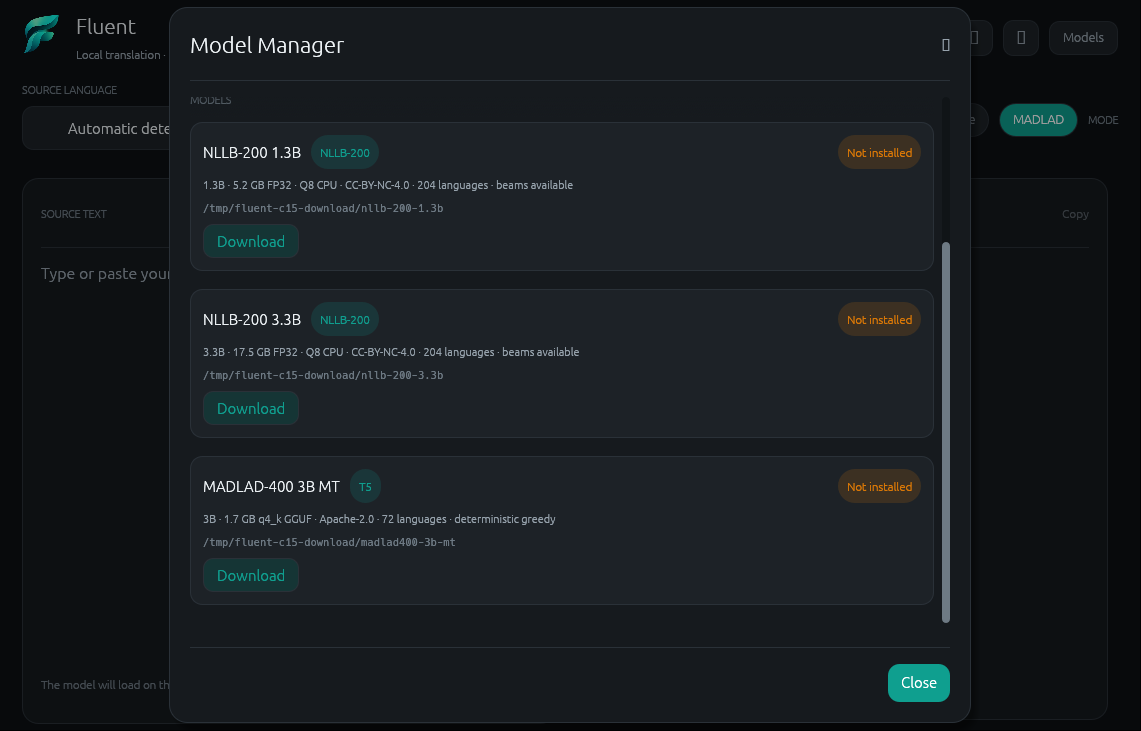
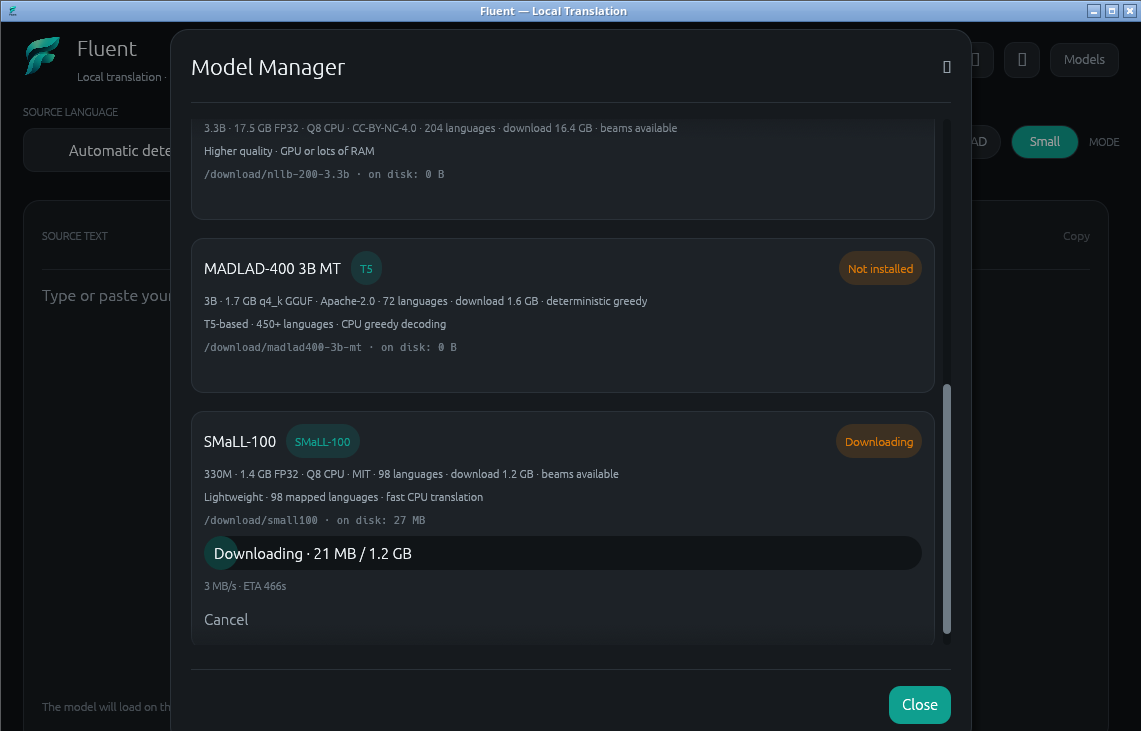
docs: record the Cycle 16 model comparison and UI captures
Adds the 42-pair and 126-case FLORES-200 measurements for SMaLL-100,
NLLB-200 1.3B/3.3B and MADLAD, plus real GUI captures of the four-model
selector, catalogue refresh, verified SMaLL-100 installation, download
confirmation and live download progress. Replaces the stale three-model
MADLAD screenshot.

diff --git a/docs/BENCHMARKS.md b/docs/BENCHMARKS.md
@@ -1,4 +1,7 @@
-# Translation Quality and Performance Benchmarks (Cycle 14)
+# Translation Quality and Performance Benchmarks
+
+Sections 1–9 record Cycle 14. Section 10 adds the Cycle 16 lightweight-model
+comparison over all 42 directed pairs among the seven required languages.
 
 This document records measured results on the canonical development host. It is
 a snapshot, not a universal performance claim. Raw JSON and metric outputs are
@@ -234,3 +237,162 @@ Unsupported selections are explicitly rejected and the GUI filters the picker.
 - Allocator-retained RSS after unload is not live model state.
 - The manual model selector is intentionally unchanged; no automatic routing
   was added.
+
+## 10. Cycle 16: SMaLL-100 and all 42 directed pairs
+
+### 10.1 Corpus and method
+
+- Corpus: `benchmarks/flores-7x7.json`, CC-BY-SA-4.0, derived from the first
+  three FLORES-200 devtest sentences for each of the **42 directed pairs** among
+  `eng_Latn`, `fra_Latn`, `deu_Latn`, `spa_Latn`, `por_Latn`, `ita_Latn` and
+  `zho_Hans` (126 cases). The archive is not committed.
+- Harness: `crates/fluent-core/examples/eval.rs`, one model per process, same
+  `Engine` path as the GUI, one warm-up translation, one measured repetition,
+  output ceiling 256 tokens, source limit 512 tokens.
+- Beams: 4 for NLLB and SMaLL-100; MADLAD is greedy by design (effective
+  beams = 1).
+- Metrics: SacreBLEU 2.6.0, chrF++ (word order 2) and BLEU (13a). Macro values
+  are the unweighted mean of the 42 pair scores.
+- Host: Intel Core i5-11400H (6C/12T), 15 GiB RAM, 24 GiB swap, Nobara Linux
+  44, CPU only, Rust 1.99.0, Candle 0.11.
+
+### 10.2 Quality
+
+Primary comparison: one sentence per pair (42 cases), identical case ids for
+every model. MADLAD was measured on this sample because its CPU cost makes the
+three-sentence run impractical on this host.
+
+| Model | Parameters | Download | chrF++ (macro) | BLEU (macro) | Cases |
+|---|---:|---:|---:|---:|---:|
+| SMaLL-100, beams=4 | 330M | 1.34 GB | 43.35 | 18.64 | 42 |
+| NLLB-200 1.3B, beams=4 | 1.3B | 5.50 GB | 44.40 | 20.79 | 42 |
+| NLLB-200 3.3B Q8, beams=4 | 3.3B | 17.60 GB | **47.56** | **24.28** | 42 |
+| MADLAD-400 3B q4_k, greedy | 3B | 1.68 GB | **47.65** | 22.50 | 42 |
+
+Extended sample: three sentences per pair (126 cases) for the three models that
+could complete it in reasonable time.
+
+| Model | chrF++ (macro) | BLEU (macro) | Cases |
+|---|---:|---:|---:|
+| SMaLL-100, beams=4 | 50.06 | 24.60 | 126 |
+| NLLB-200 1.3B, beams=4 | 51.04 | 27.61 | 126 |
+| NLLB-200 3.3B Q8, beams=4 | **53.83** | **30.80** | 126 |
+
+Differences of a few chrF++ points are within noise at this sample size. The
+per-pair table is the useful view.
+
+### 10.3 Performance
+
+Same 42-case sample. All timings are CPU-only.
+
+| Model | Load | RSS after load | Peak RSS | Median latency | TTFT (median) | Generated tok/s | Median output |
+|---|---:|---:|---:|---:|---:|---:|---:|
+| SMaLL-100 | **0.96 s** | **0.42 GB** | **1.67 GB** | **0.44 s** | **98 ms** | **59.9** | 27 tok |
+| NLLB-200 1.3B | 10.46 s | 1.63 GB | 2.29 GB | 2.08 s | 406 ms | 12.0 | 25 tok |
+| NLLB-200 3.3B Q8 | 19.08 s | 3.75 GB | 4.57 GB | 4.43 s | 852 ms | 6.1 | 27 tok |
+| MADLAD-400 3B q4_k | 1.19 s | 2.68 GB | 2.72 GB | 16.87 s | 2.91 s | 1.8 | 31 tok |
+
+Extended 126-case performance (three models):
+
+| Model | Median latency | p95 latency | TTFT (median) | Generated tok/s |
+|---|---:|---:|---:|---:|
+| SMaLL-100 | 0.67 s | 1.05 s | 122 ms | 61.6 |
+| NLLB-200 1.3B | 3.10 s | 5.19 s | 484 ms | 12.2 |
+| NLLB-200 3.3B Q8 | 6.01 s | 10.31 s | 998 ms | 6.2 |
+
+Latency is the per-case wall time including tokenization, encoding and beam
+search. TTFT is the first decoding-progress update, not a hardware-level token
+timestamp. Peak RSS includes checkpoint mapping and Q8 conversion.
+
+### 10.4 Per-pair chrF++
+
+42-case common sample:
+
+| Pair | SMaLL-100 | NLLB 1.3B | NLLB 3.3B | MADLAD |
+|---|---:|---:|---:|---:|
+| deu→eng | 34.4 | 49.5 | 49.5 | 45.4 |
+| deu→fra | 47.8 | 47.9 | 47.9 | 51.4 |
+| deu→ita | 54.6 | 55.1 | 68.7 | 49.6 |
+| deu→por | 39.6 | 33.7 | 39.6 | 40.3 |
+| deu→spa | 29.6 | 29.6 | 40.0 | 34.6 |
+| deu→zho | 22.3 | 18.8 | 17.8 | 26.2 |
+| eng→deu | 45.0 | 53.7 | 45.0 | 52.4 |
+| eng→fra | 57.7 | 63.9 | 63.9 | 64.7 |
+| eng→ita | 49.7 | 54.9 | 55.0 | 41.6 |
+| eng→por | 58.3 | 72.6 | 66.6 | 63.6 |
+| eng→spa | 38.0 | 50.8 | 43.4 | 51.5 |
+| eng→zho | 16.3 | 18.8 | 9.7 | 22.1 |
+| fra→deu | 44.6 | 53.2 | 52.2 | 52.2 |
+| fra→eng | 46.6 | 55.2 | 64.0 | 64.9 |
+| fra→ita | 54.5 | 57.6 | 56.0 | 57.6 |
+| fra→por | 50.4 | 47.1 | 56.2 | 56.8 |
+| fra→spa | 36.5 | 31.6 | 40.6 | 40.6 |
+| fra→zho | 21.8 | 18.8 | 9.7 | 40.6 |
+| ita→deu | 65.3 | 56.4 | 56.8 | 55.5 |
+| ita→eng | 41.3 | 46.3 | 59.6 | 48.9 |
+| ita→fra | 53.0 | 52.1 | 50.2 | 62.1 |
+| ita→por | 50.0 | 42.2 | 49.4 | 44.7 |
+| ita→spa | 56.6 | 49.9 | 51.5 | 56.6 |
+| ita→zho | 12.4 | 6.7 | 8.5 | 17.1 |
+| por→deu | 46.1 | 48.7 | 53.6 | 53.4 |
+| por→eng | 43.5 | 55.0 | 67.3 | 63.4 |
+| por→fra | 65.2 | 61.3 | 68.0 | 67.7 |
+| por→ita | 63.1 | 56.8 | 55.0 | 63.1 |
+| por→spa | 45.8 | 41.6 | 43.0 | 51.5 |
+| por→zho | 14.4 | 7.8 | 17.8 | 16.9 |
+| spa→deu | 61.0 | 54.1 | 61.8 | 55.5 |
+| spa→eng | 50.9 | 58.7 | 57.1 | 55.4 |
+| spa→fra | 58.7 | 60.3 | 54.3 | 61.4 |
+| spa→ita | 80.8 | 86.9 | 91.0 | 82.9 |
+| spa→por | 62.9 | 53.6 | 63.4 | 57.0 |
+| spa→zho | 10.6 | 6.5 | 12.0 | 17.2 |
+| zho→deu | 41.5 | 41.7 | 53.5 | 44.9 |
+| zho→eng | 27.8 | 36.9 | 37.9 | 33.5 |
+| zho→fra | 34.3 | 32.6 | 38.8 | 40.1 |
+| zho→ita | 28.8 | 25.1 | 50.3 | 39.0 |
+| zho→por | 26.0 | 42.8 | 40.0 | 23.5 |
+| zho→spa | 33.4 | 28.1 | 30.5 | 33.8 |
+
+These are single-sentence scores and therefore noisy at the pair level; the
+macro figures above are the reliable summary. The 126-case run gave a smoother
+picture (SMaLL 50.06, NLLB 1.3B 51.04, NLLB 3.3B 53.83).
+
+
+### 10.5 Stability and cancellation
+
+- SMaLL-100: two identical requests produced identical text and token counts;
+  unload/reload reproduced the same output. Cancellation during generation was
+  observed within ~100 ms.
+- The NLLB and MADLAD lifecycle, cancellation and long-generation tests from
+  Cycle 14 remain unchanged and pass.
+
+### 10.6 Interpretation
+
+- SMaLL-100 is dramatically lighter (1.34 GB, 0.42 GB RSS after load) and
+  ~4.7x faster than NLLB 1.3B on this CPU (0.44 s vs 2.08 s median on the
+  42-case sample), with macro chrF++ about one point lower (43.35 vs 44.40;
+  50.06 vs 51.04 on 126 cases).
+- SMaLL-100 is ~38x faster than MADLAD on the same 42 cases (0.44 s vs 16.87 s
+  median) and uses ~6x less resident memory, at a cost of ~4.3 chrF++ points.
+- NLLB 3.3B and MADLAD are effectively tied on chrF++ in this sample (47.56 vs
+  47.65); NLLB 3.3B has the higher BLEU and is ~3.8x faster than MADLAD. NLLB
+  3.3B remains the quality ceiling but costs 17.6 GB and 3.75 GB RSS.
+- On the larger 126-case sample, SMaLL-100 is notably stronger than NLLB 1.3B
+  on Chinese→English and English→Chinese, and weaker on Romance→English.
+- The 42-case per-pair differences are noisy; use the macro figures and the
+  126-case sample for decisions.
+
+### 10.7 Limitations
+
+- The primary comparison uses one sentence per pair (42 cases); the extended
+  sample uses three (126 cases) for the three models that could complete it.
+  Neither substitutes for a full FLORES devtest evaluation.
+- MADLAD's 16.9 s median makes the three-sentence run impractical on this CPU;
+  its per-pair scores are single-sentence and noisy.
+- One NLLB 1.3B case in the 126-case run reached the 256-token ceiling
+  (`zho_Hans→eng_Latn`, sentence 2); its output is truncated.
+- BLEU is 0 for Chinese targets with three references because no 4-gram
+  matches; chrF++ is the more informative number there.
+- No COMET, human evaluation or GPU benchmark was performed.
+- Windows and macOS SMaLL-100 runtime validation was not executed; CI compiles
+  the code only.

diff --git a/docs/ASSETS.md b/docs/ASSETS.md
@@ -120,14 +120,16 @@ Captured from the actual running application on the canonical Linux host:
 | Settings page, MADLAD selected | `docs/screenshots/settings-madlad.png` |
 | MADLAD CPU/greedy/output controls | `docs/screenshots/settings-madlad-output.png` |
 | MADLAD filtered target-language picker | `docs/screenshots/language-picker-madlad.png` |
-| Model Manager, storage and installed models | `docs/screenshots/model-manager.png` |
-| Model Manager, MADLAD card and actions | `docs/screenshots/model-manager-madlad.png` |
-| Model Manager, custom storage and download actions | `docs/screenshots/model-manager-download.png` |
+| Main interface with SMaLL-100 selected | `docs/screenshots/main-small.png` |
+| Model Manager, storage, catalogue and four models | `docs/screenshots/model-manager.png` |
+| Model Manager, SMaLL-100 installed and verified | `docs/screenshots/model-manager-small.png` |
+| Model Manager, download confirmation and licence | `docs/screenshots/model-manager-confirm.png` |
+| Model Manager, live download progress, speed, ETA and cancel | `docs/screenshots/model-manager-download.png` |
 | Language picker | `docs/screenshots/language-picker.png` |
 | Main interface, light theme | `docs/screenshots/main-light.png` |
 
 The settings screenshots use a disposable container home directory so no user
-paths or private text are exposed; they show the three-model selector, MADLAD
+paths or private text are exposed; they show the four-model selector, MADLAD
 runtime capabilities and the Output limit control. The main preview was captured with neutral sample
 text. These are documentation captures, not mockups.
 
